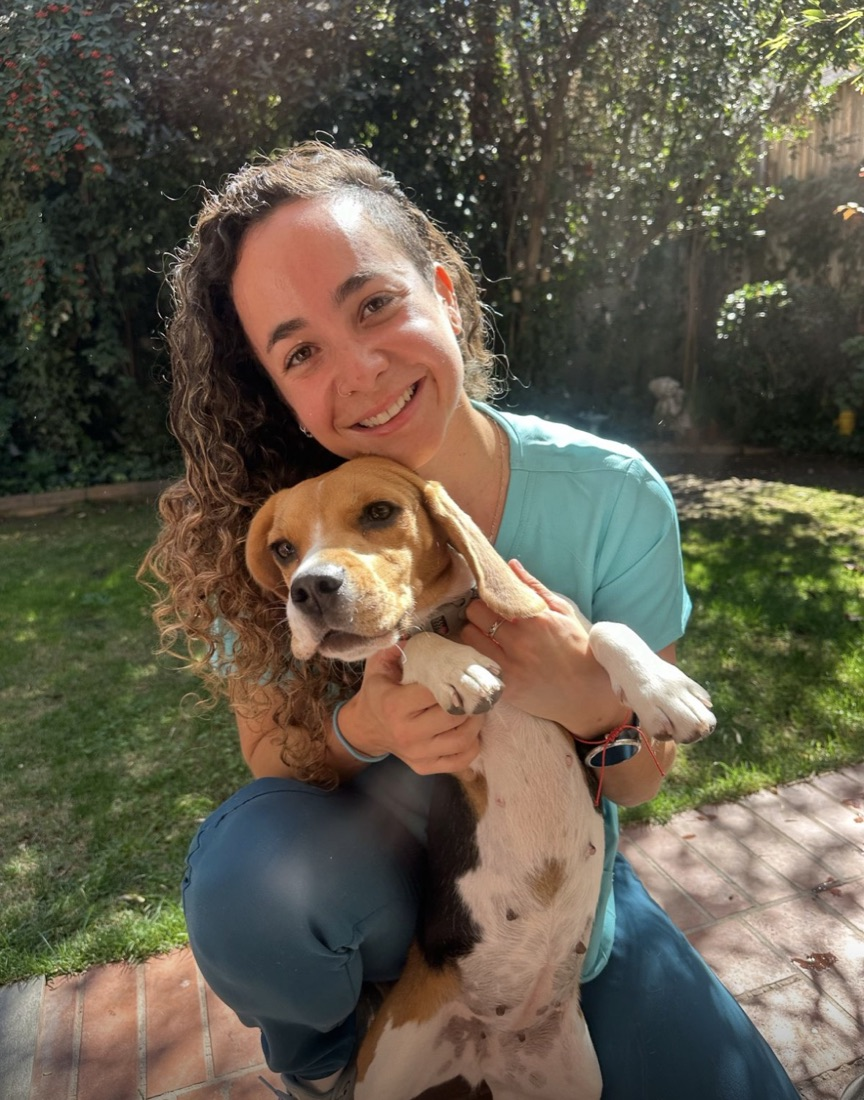
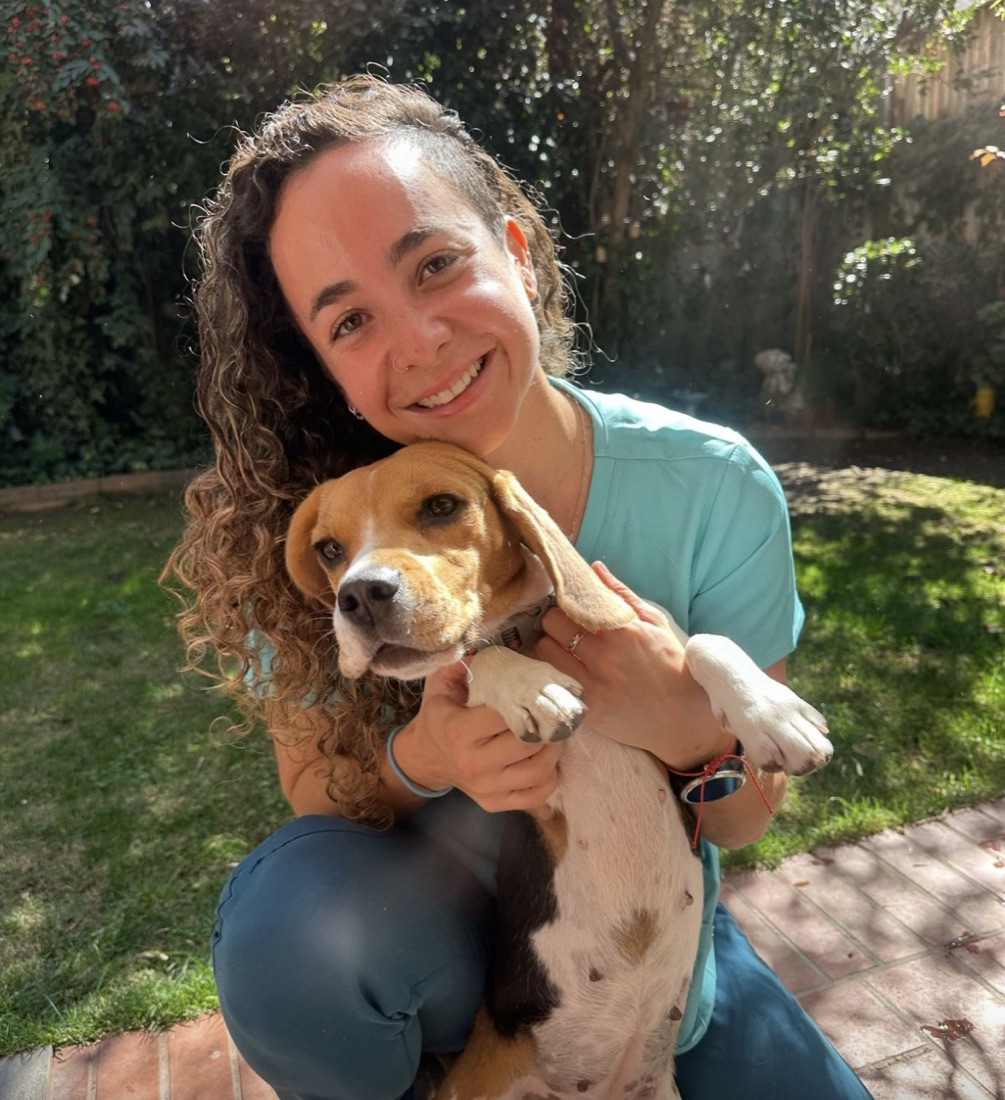
Subir el encuadre del hero: la foto parte desde la cabeza de Luna
Sobraba una franja de árboles arriba. Se corrigió recortando la foto de
origen (fuera el 10% superior) en vez de forzar el object-position: la foto
es vertical y el marco del teléfono es horizontal, así que empujar el recorte
hacia abajo con CSS le cortaba las patas al beagle.

Con la foto ya recortada, el encuadre funciona igual en teléfono y escritorio.

diff --git a/index.html b/index.html
@@ -67,7 +67,7 @@
     <div class="hero__visual">
       <div class="visual">
         <div class="visual__panel visual__panel--foto">
-          <img src="assets/luna-beagle.jpg" width="864" height="1100"
+          <img src="assets/luna-beagle.jpg" width="1005" height="1100"
                alt="La Dra. Luna Fuentes sonriendo mientras sostiene a un beagle durante una visita a domicilio">
         </div>
       </div>

diff --git a/styles.css b/styles.css
@@ -183,7 +183,7 @@ ul,ol{ margin:0; padding:0; list-style:none; }
   overflow:hidden;
   background:var(--marca-100);
 }
-.visual__panel--foto img{ object-fit:cover; object-position:center 30%; }
+.visual__panel--foto img{ object-fit:cover; object-position:center 22%; }
 
 /* ---------- Strip ---------- */
 .strip{ border-block:1px solid var(--line); background:var(--white); }
